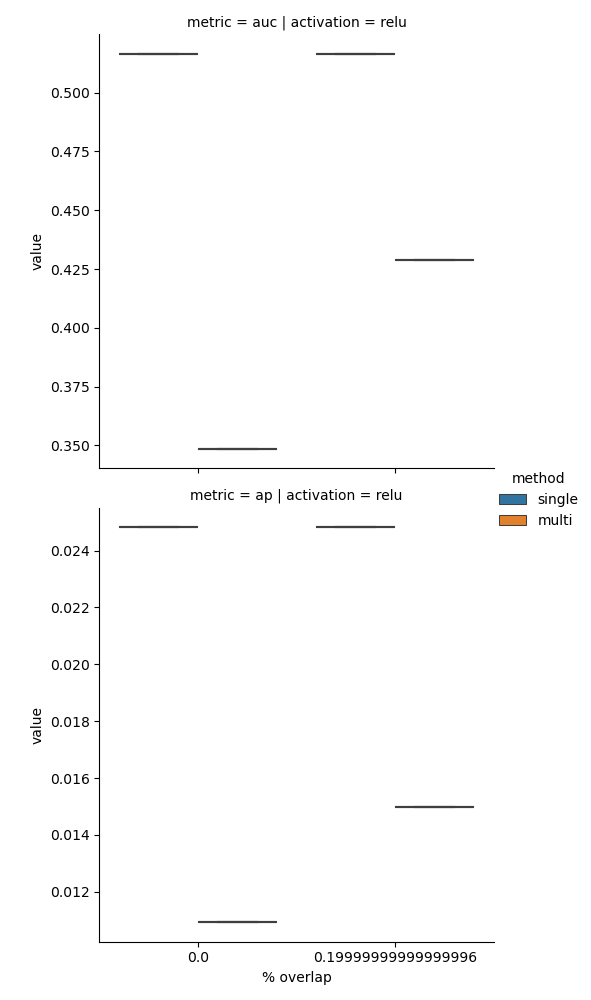
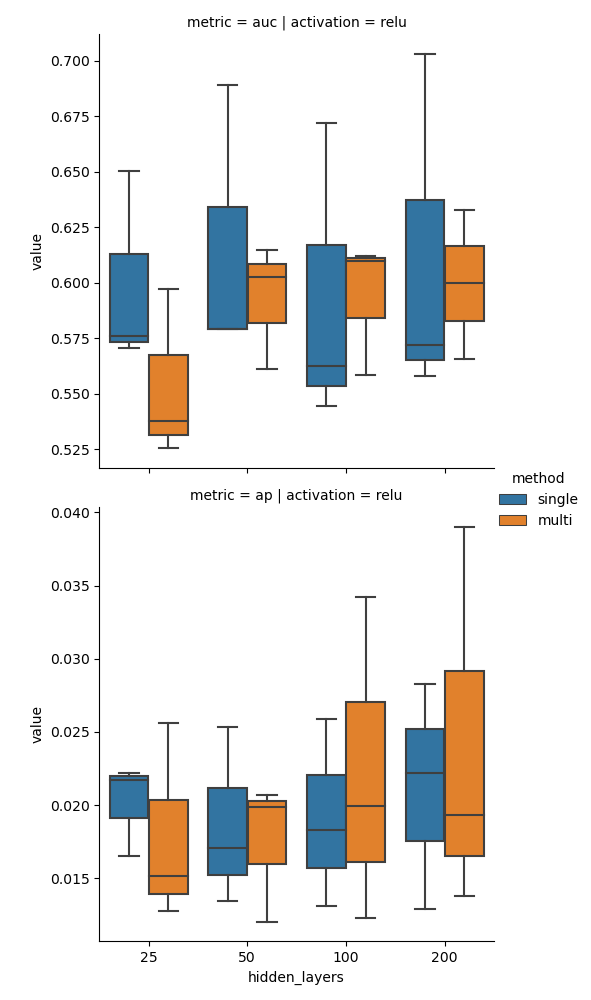
fixing sklearn implementation

diff --git a/Models/sklearn/mlp_classifier.py b/Models/sklearn/mlp_classifier.py
@@ -2,45 +2,32 @@ import copy
 import numpy as np
 from sklearn.neural_network import MLPClassifier
 from Models.sklearn.mlp_preset_weights import MLPClassifierOverride
-from Models.dataloader import create_batches
 
 
 def sklearn_mlp(
         x_train, e1_train, e2_train, x_test, random_state, hidden_layers,
         activation, run_refined=False, learning_rate=0.001, batch_size=200,
-        epochs=200, regularization=0.0001
+        epochs=500, regularization=0.0001
 ):
-    train_epochs = create_batches(x_train.shape[0], batch_size, epochs,
-                                  random_state)
-
     single_model = MLPClassifier(hidden_layer_sizes=hidden_layers,
                                  activation=activation,
                                  learning_rate_init=learning_rate,
                                  alpha=regularization,
-                                 random_state=random_state)
-
+                                 random_state=random_state,
+                                 batch_size=batch_size,
+                                 max_iter=epochs).fit(x_train, e1_train)
+    print('Single Fit')
     multi_model = MLPClassifier(hidden_layer_sizes=hidden_layers,
                                 activation=activation,
                                 learning_rate_init=learning_rate,
                                 alpha=regularization,
-                                random_state=random_state)
-
-    for e in train_epochs:
-        for batch in e:
-            X = x_train[batch, :]
-            Y1 = e1_train[batch]
-            Y2 = np.concatenate([e1_train[batch].reshape(-1, 1),
-                                 e2_train[batch].reshape(-1, 1)], axis=1)
-            single_model.partial_fit(X, Y1, classes=np.unique(e1_train))
-            multi_model.partial_fit(X, Y2,
-                                    classes=np.unique(
-                                        np.concatenate(
-                                            [e1_train.reshape(-1, 1),
-                                             e2_train.reshape(-1, 1)],
-                                            axis=1
-                                        ))
-                                    )
-
+                                random_state=random_state,
+                                batch_size=batch_size,
+                                max_iter=epochs).fit(
+        x_train, np.concatenate([e1_train.reshape(-1, 1),
+                                 e2_train.reshape(-1, 1)], axis=1)
+    )
+    print('Multi Fit')
     if run_refined:
         multi_coefs = copy.deepcopy(multi_model.coefs_)
         multi_intercepts = copy.deepcopy(multi_model.intercepts_)

diff --git a/Experiments/shared_datagen.py b/Experiments/shared_datagen.py
@@ -7,23 +7,24 @@ the the path to rare_event_mll/ to your PYTHONPATH."""
 and they will all be run. be aware when combining multiple lists that this
 can lead to very long run time to complete all combinations."""
 
-save_file = 'sklearn/test_rs.csv'  # saved inside Results/ folder
-n_patients = 5000  # n of samples to generate
+save_file = 'torch/test_rs.csv'  # saved inside Results/ folder
+n_patients = 50000  # n of samples to generate
 n_features = 100  # n of features to generate
 event_rate = 0.01  # event rate for sample
-model_types = ['sklearn']  # options are 'sklearn' and 'torch'
-hidden_layers = [[25]]  # list of hidden layer sizes
+model_types = ['torch']  # options are 'sklearn' and 'torch'
+hidden_layers = [[200], [100], [50], [25]]  # list of hidden layer sizes
 activations = ['relu']  # activation function. currently only support relu
 similarity_measures = {
-    'n_distinct': [20, 25],  # n of distinct features for each label
-    'n_random_features': [25],  # n of hidden features for each label
+    'n_distinct': [5],  # n of distinct features for each label
+    'n_random_features': [20],  # n of hidden features for each label
     'shared_second_layer_weights': [True]  # whether the labels share the same weights of their features
 }
-n_iters = 1  # n of iterations to run each combination
+n_iters = 3  # n of iterations to run each combination
 test_perc = 0.25  # percent of samples to use for test set
 print_time = True  # whether to print updates after each combination is complete
 print_output = False  # whether to print details about each generated dataset
 plot = False  # whether to plot details of each generated dataset
+run_refined = False
 
 results = base_auc_ap(n=n_patients, p=n_features, er=event_rate,
                       model_types=model_types, hidden_layers=hidden_layers,
@@ -31,6 +32,7 @@ results = base_auc_ap(n=n_patients, p=n_features, er=event_rate,
                       datagen='shared_features',
                       similarity_measures=similarity_measures,
                       test_perc=test_perc, print_time=print_time,
-                      print_output=print_output, plot=plot)
+                      print_output=print_output, plot=plot,
+                      run_refined=run_refined)
 
 results.to_csv(f'Results/{save_file}', index=False)

diff --git a/generate_data.py b/generate_data.py
@@ -46,11 +46,13 @@ def generate_data_shared_features(
 	e1 = bernoulli_draw(rs, p1)
 
 	# generate labels for event 2
-	W2 = glorot_uniform(rs, n_features, n_distinct)
+	W2 = glorot_uniform(rs, n_features, n_distinct).reshape(n_features,
+															n_distinct)
 	h2 = np.concatenate([np.copy(h1[:, :n_overlapping]), relu(x @ W2)], axis=1)
 	if shared_second_layer_weights:
 		c2 = np.concatenate([c1[:n_overlapping],
-							 glorot_uniform(rs, n_distinct, 1)])
+							 glorot_uniform(rs, n_distinct, 1).reshape(-1,)
+							 ])
 	else:
 		c2 = glorot_uniform(rs, n_features, n_random_features)
 

diff --git a/Results/plot_shared_features_results.py b/Results/plot_shared_features_results.py
@@ -2,7 +2,7 @@ from Results.base_plot_auc_ap import plot_auc_ap
 
 file_name = 'sklearn/test_rs.csv'
 vars = {
-    'x_var': '% overlap',
+    'x_var': 'hidden_layers',
     'hue_var': 'method',
     'row_var': 'metric',
     'col_var': 'activation'
